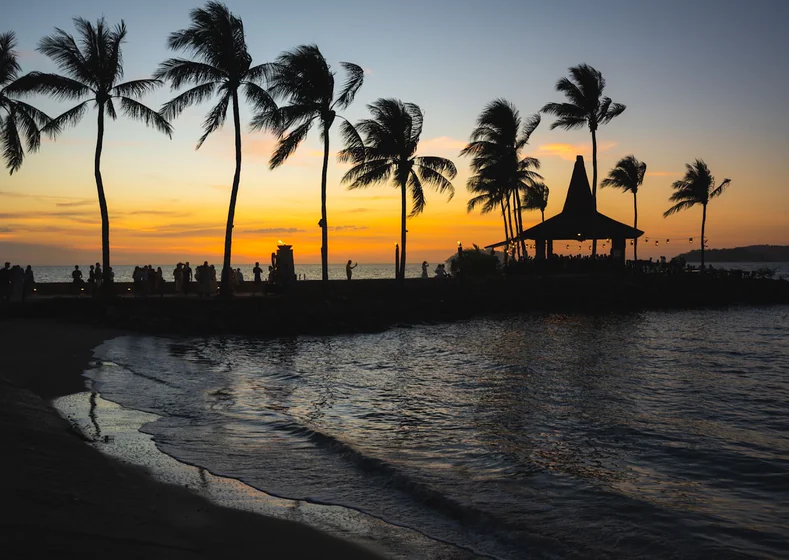
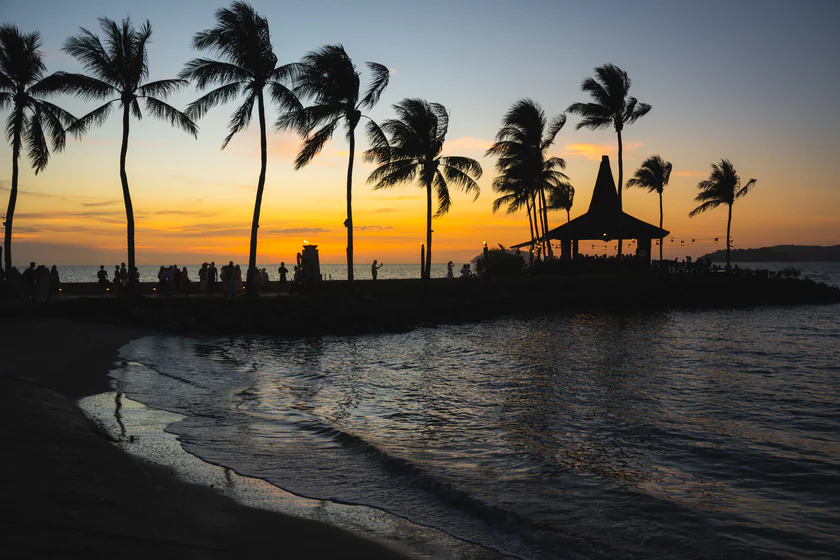
Export the palm-sunset photo (more-13) from its original
The last photo still on a Google Sites archive copy. The archive was a
1.41 crop; the original is the full 3:2 frame, so the photo is a little
wider in the marquee (the row speed changes by under 0.5%, left as is).
Every gallery photo now comes from an original.

diff --git a/README.md b/README.md
@@ -129,8 +129,7 @@ done
 ```
 
 错落的高度由脚本按序号自动标，照片数不必凑 4 的倍数。增减照片后按比例调整该栏的 `--dur`，保持滚动速度不变。
-目前只有 `more-13`（椰林日落）还没有原图，`src/` 里放的是旧 Google Sites 存档图（1280×908），
-找到原图后按同名替换、重新导出即可。
+换原图时按同名覆盖 `src/` 里的文件、重新导出即可；宽高比变了的话，顺手按比例微调该栏的 `--dur`。
 
 ## 搜索引擎收录
 
